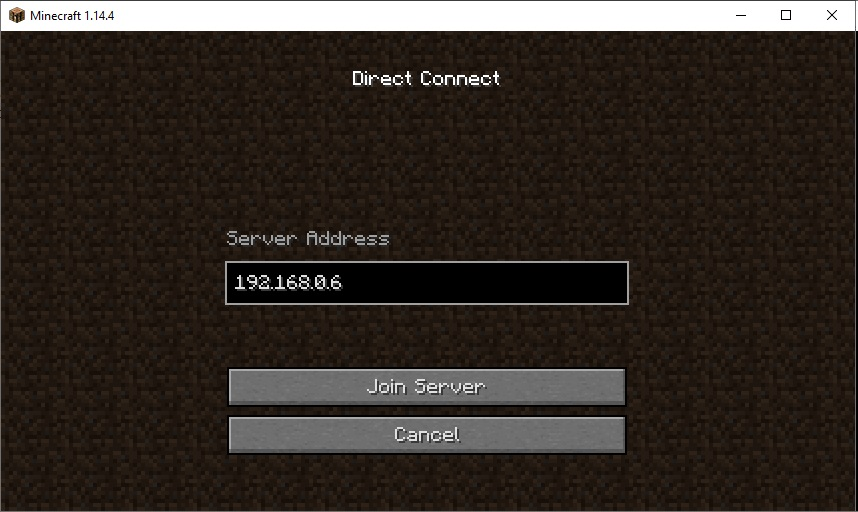
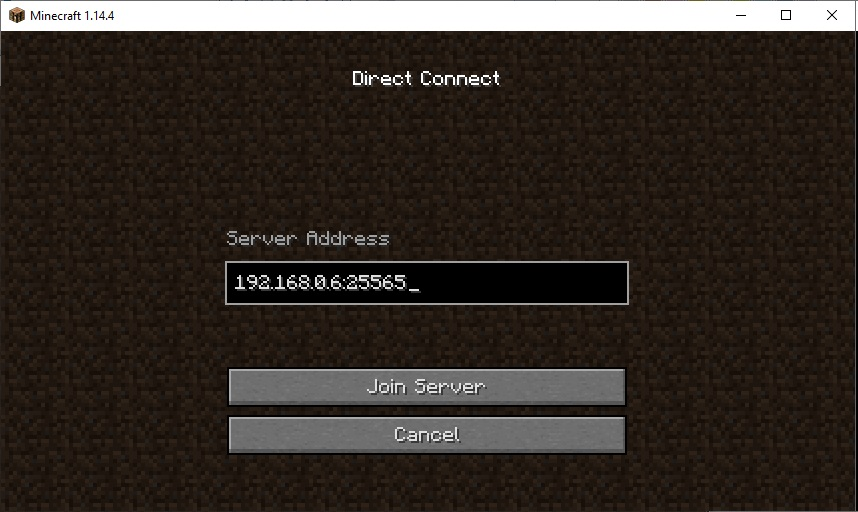
local connect

Changed region(s): [[0.3939, 0.5312, 0.4848, 0.5938]]

diff --git a/docs/multiplayer.html b/docs/multiplayer.html
@@ -1,10 +1,16 @@
 <h1>How to play with others on the local (home) network</h1>
-  To allow others on your local home network to play on your server, we first need to find out the local ip address of your server computer<br>
+  Here are the requirements to play with others on your home server: <br>
+  <ul>
+     <li>You need to know the ip address of the computer running your server (use ipconfig) </li>
+     <li>You must select multiplayer, direct connect and enter the computer address <b>PLUS</b> the port: 25565</li>
+     <li>Each player must have their own mine craft account</li>
+  </ul>
+  To find the local ip address of your server computer<br>
   To determine ip address: cntl-r, cmd, ipconfig<br>
   <img src="images/ipconfig.jpg">
-  Look for a 192.168.0.X address which is common<br>
-  This is the local ip address of the computer you are running the server on<br>
-  The other player will then enter this address: <br>
+  Look for a 192.168.0.X address which is your local ip address (assigned by the router)<br>
+  It is the local ip address of the computer you are running the server on<br>
+  The other player will then use this address address to connect: <br>
   From the game select Multiplayer, Direct Connect and then type in the address, and then Join Server <br>
   <img src="images/directConnect.jpg">
 <hr>
